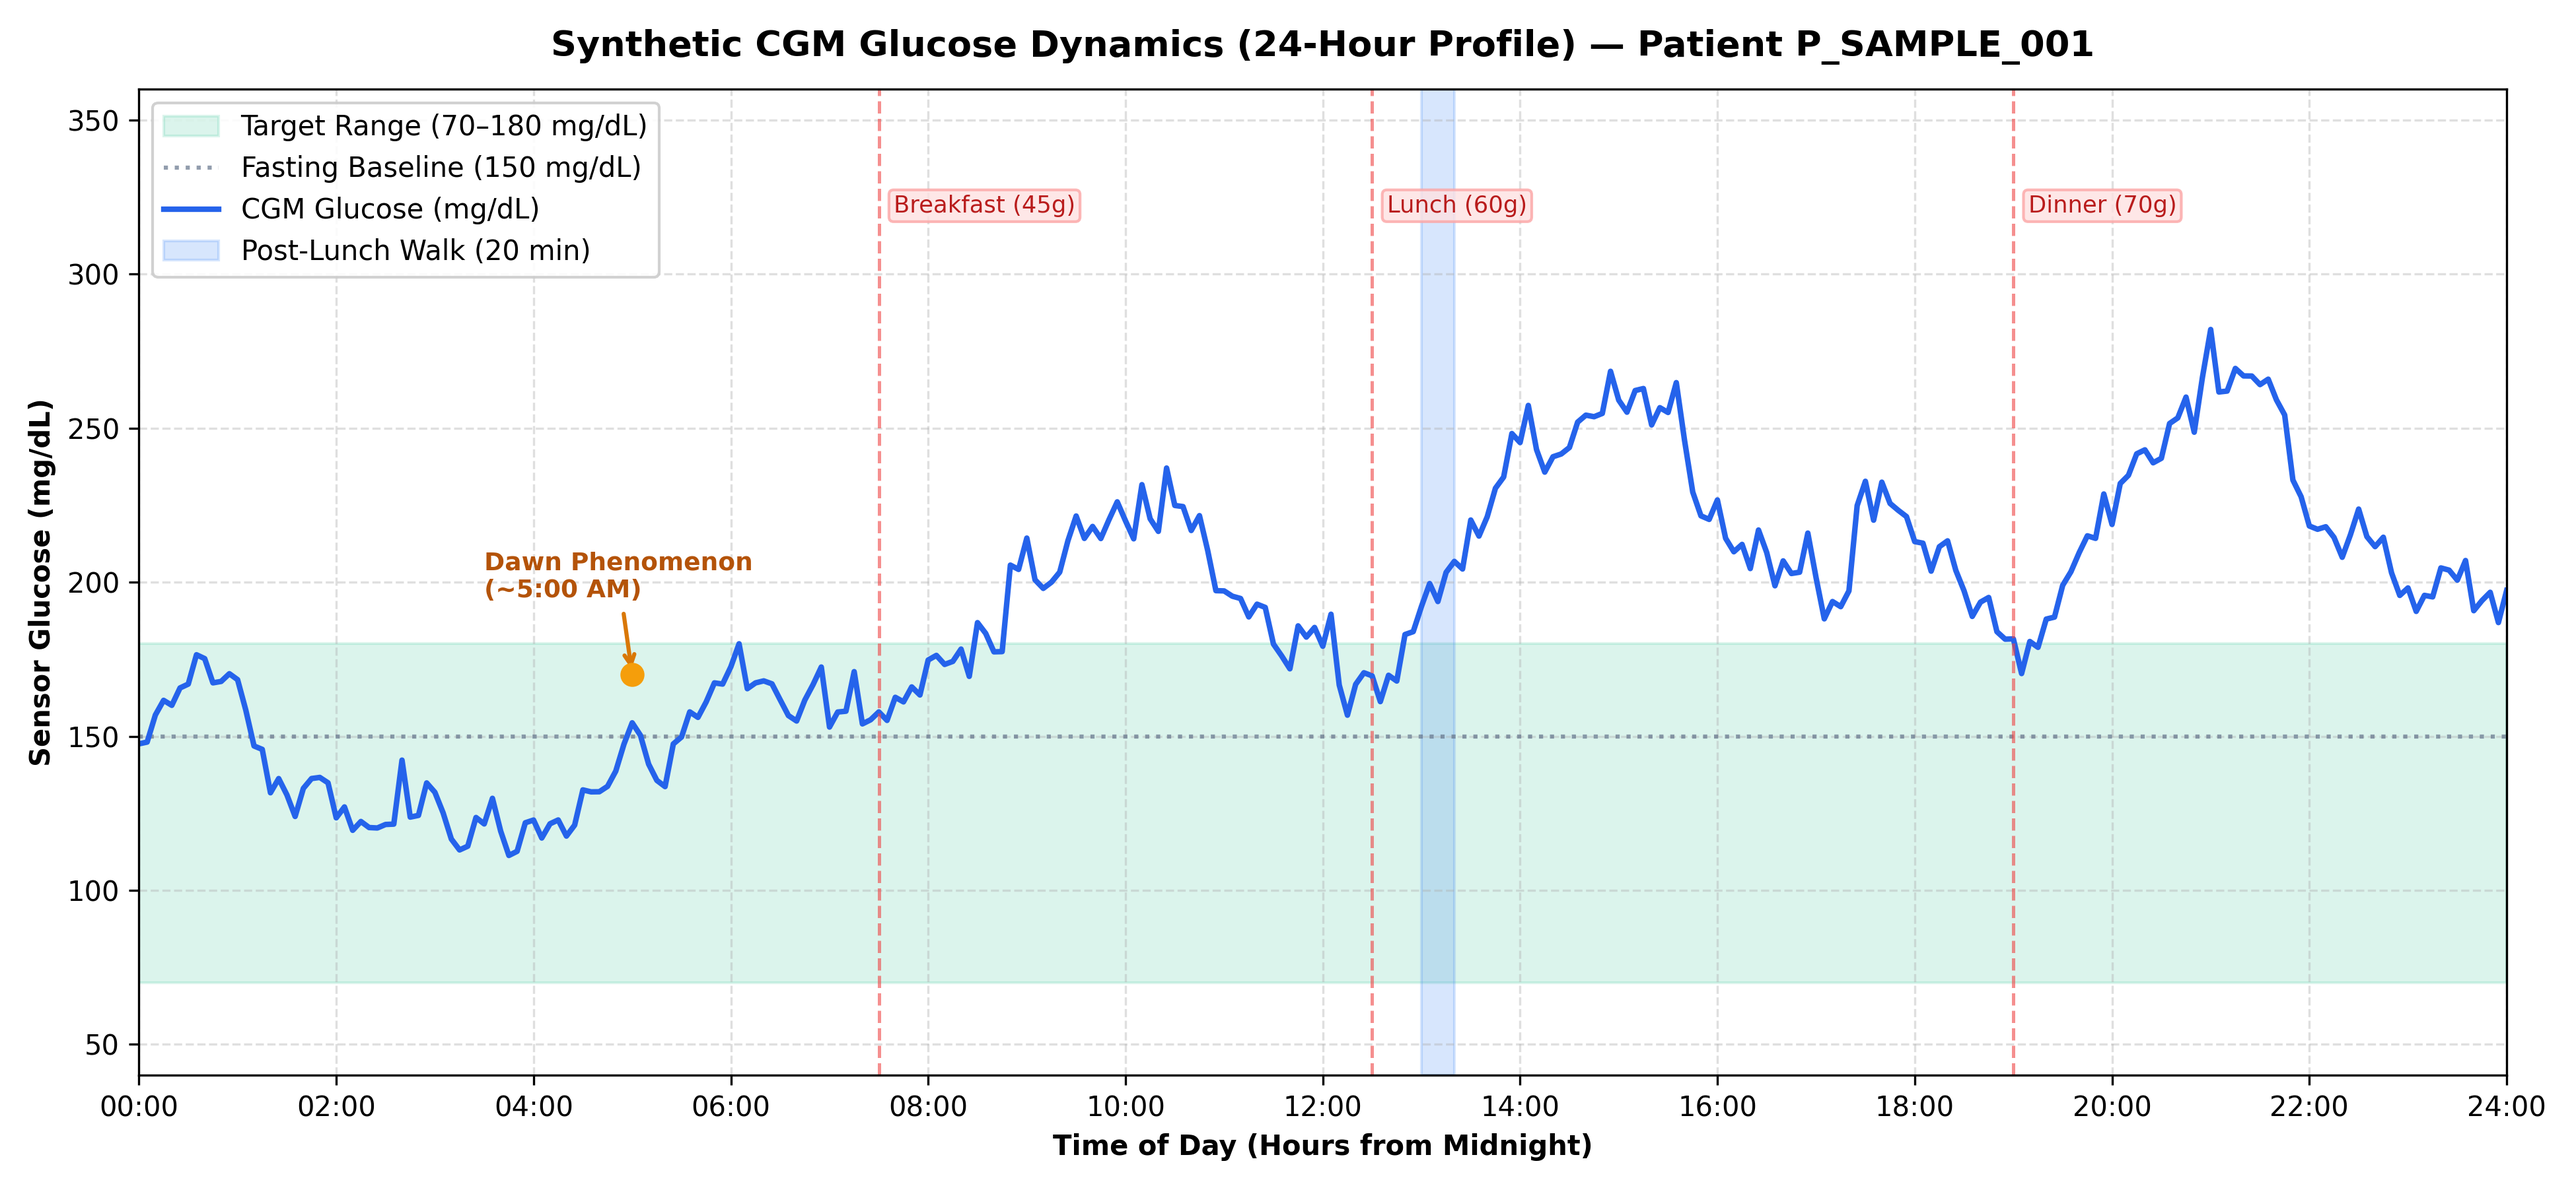
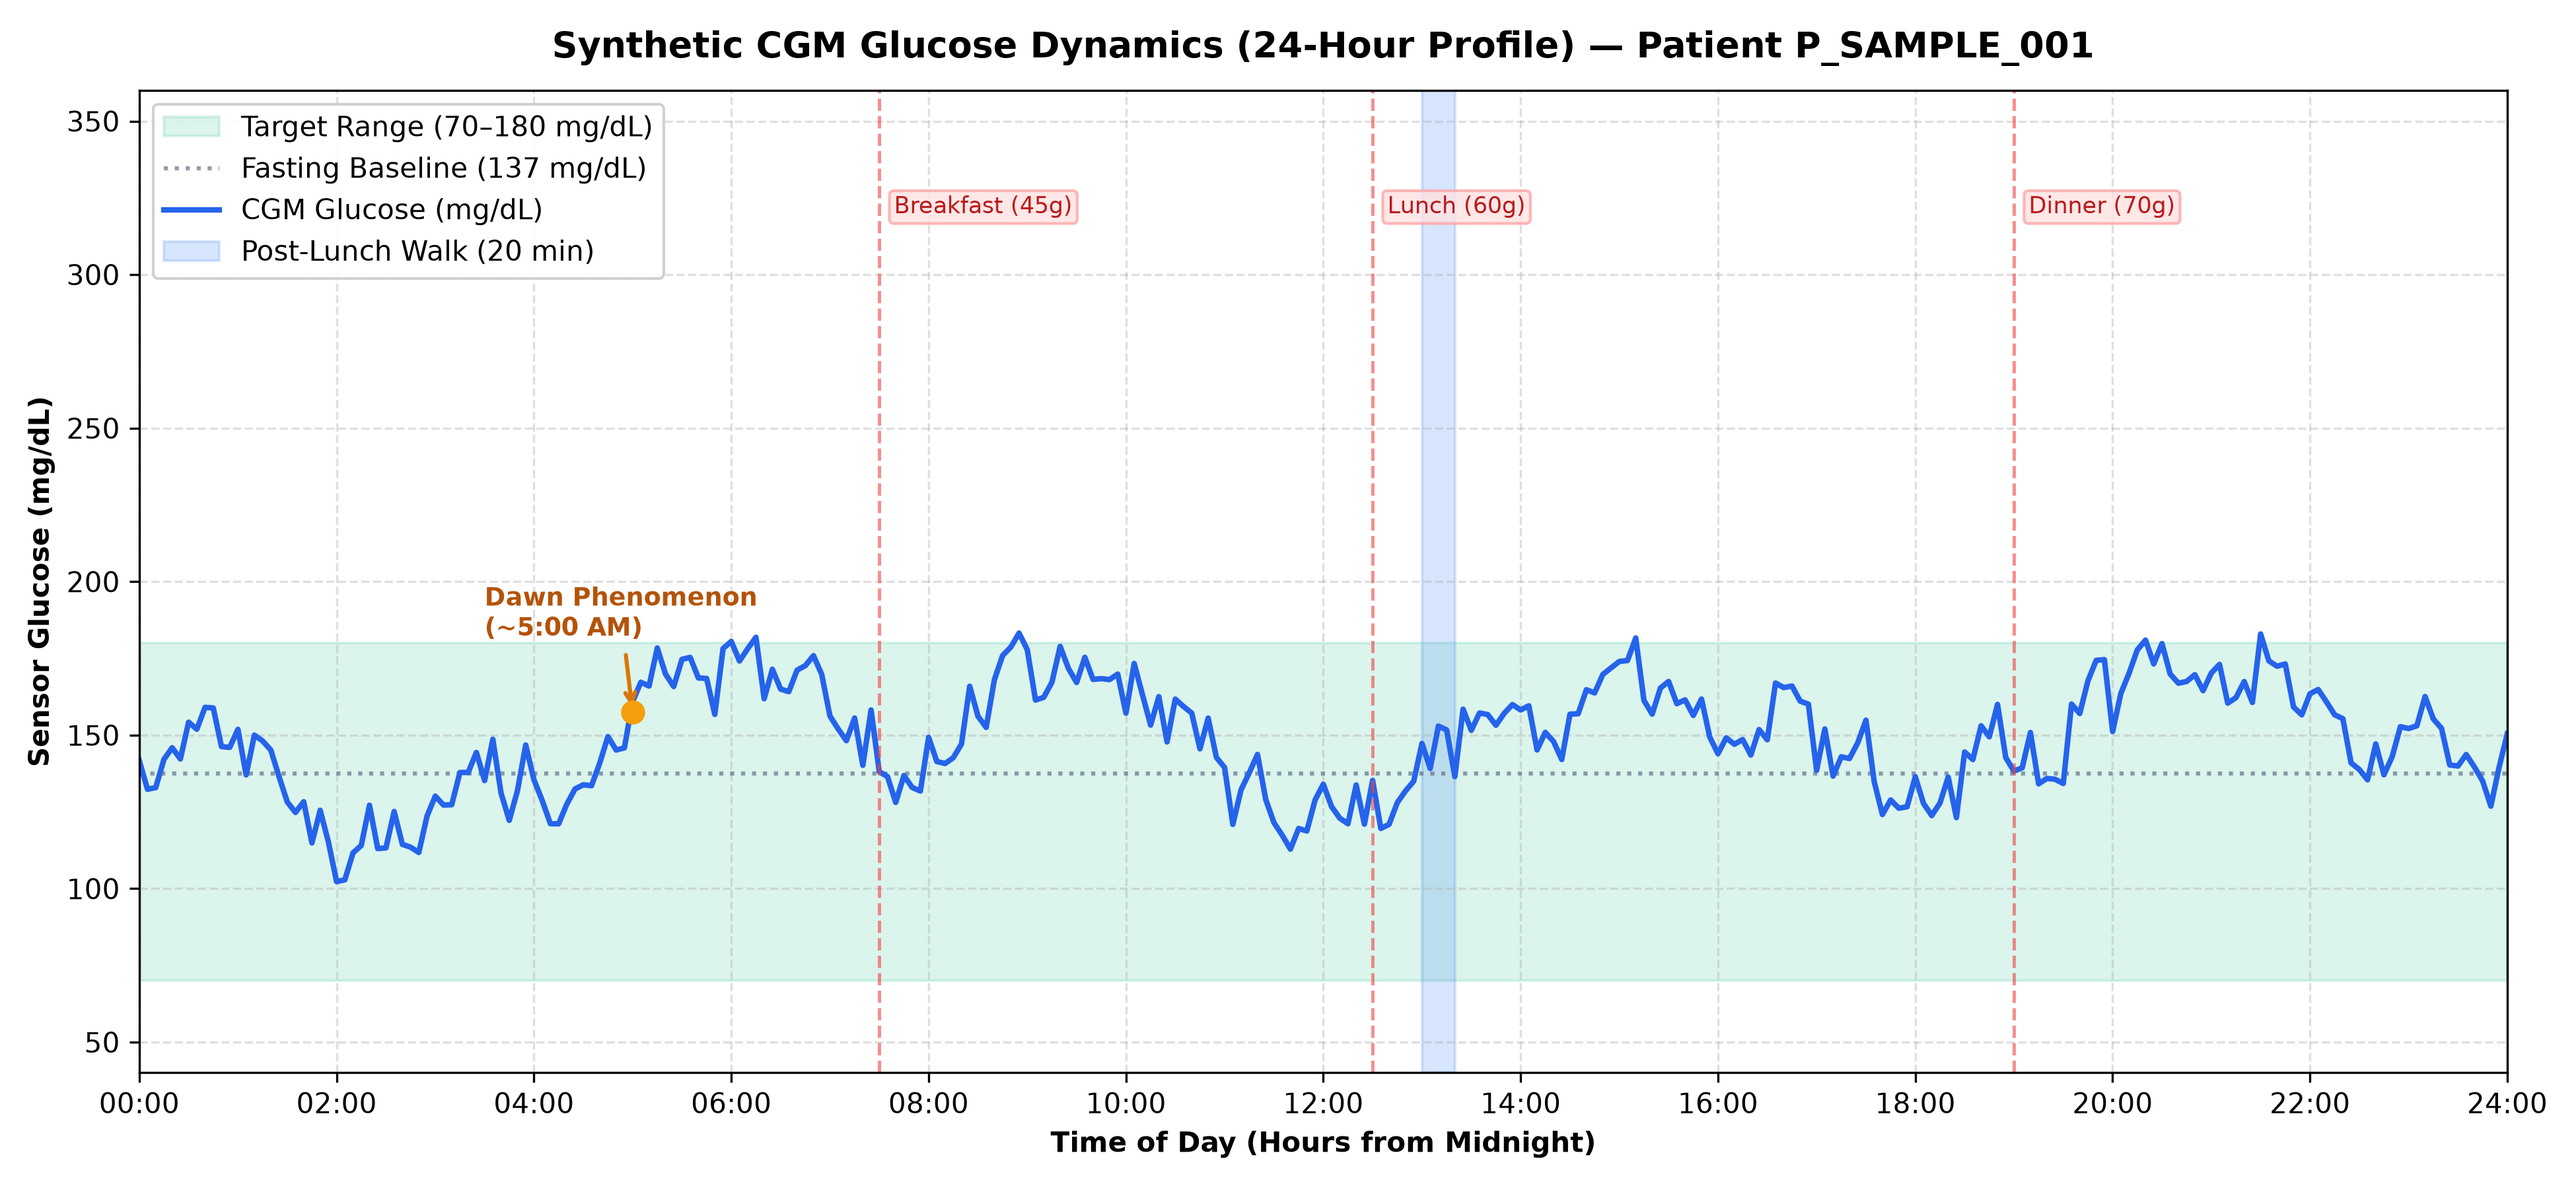
fix(data-gen): recalibrate glucose physiology for a clinically plausible cohort
- Fix meal rate-of-appearance: use a properly area-normalized double-exponential
  kernel (integral = carbs x carb_sensitivity) instead of double-scaling by k_gut
- Raise glucose-effectiveness S_G off the non-physiological 0.005 floor that caused
  meal stacking and runaway hyperglycemia; recalibrate p3 and carb sensitivity
- Dampen the basal setpoint so poorly-controlled patients sit elevated but not
  sensor-saturated
- Seed process/sensor noise per-patient (remove module-level np.random.seed that
  made every patient's noise identical)
- Recenter the EHR HbA1c distribution to a realistic cohort mean (~7.5%)

Cohort now shows ~61% time-in-range and a ~2% adverse-event rate, consistent with
a monitored T2DM population (previously ~15% TIR, pinned near the 400 mg/dL ceiling)

diff --git a/src/data_generation/glucose_dynamics_model.py b/src/data_generation/glucose_dynamics_model.py
@@ -110,7 +110,13 @@ class PatientParams:
             Initialized model parameter instance.
         """
         patient_id: str = str(profile.get("patient_id", "P001"))
-        G_b: float = float(profile["fasting_glucose"])
+        # Basal setpoint: fasting glucose is the overnight trough the ODE relaxes toward.
+        # Dampen very high fasting values toward a physiological basal so that even
+        # poorly controlled patients sit in a realistically-bad (not sensor-saturated)
+        # range, while keeping a clinically elevated fasting trough.
+        # Maps fasting 90->90, 150->141, 200->182, 280->248.
+        fasting_glucose: float = float(profile["fasting_glucose"])
+        G_b: float = float(90.0 + 0.79 * (fasting_glucose - 90.0))
 
         # Basal insulin: baseline 8.0 μU/mL, elevated in patients requiring exogenous insulin
         I_b: float = (
@@ -123,27 +129,38 @@ class PatientParams:
         bmi: float = float(profile["bmi"])
         age: float = float(profile.get("age", 55.0))
 
-        # Glucose effectiveness S_G: Higher HbA1c impairs insulin-independent glucose disposal
-        S_G: float = float(np.clip(0.025 * (10.0 - hba1c) / 4.0, 0.005, 0.04))
+        # Glucose effectiveness S_G (1/min): insulin-independent glucose disposal.
+        # Literature basal S_G in T2DM is ~0.013-0.025/min. We scale it DOWN with
+        # worsening glycemia but keep a physiological floor so glucose still clears
+        # (a floor of 0.005 gives a ~200 min clearance time constant, which is
+        # non-physiological and causes meal stacking -> runaway hyperglycemia).
+        S_G: float = float(np.clip(0.021 - 0.0020 * (hba1c - 6.5), 0.010, 0.028))
 
         # Insulin action decay p2: Fixed standard literature constant
         p2: float = 0.025
 
-        # Insulin action sensitivity p3: Improved by insulin-sensitizing and incretin therapies
+        # Insulin action sensitivity p3 (1/min per μU/mL): improved by insulin-sensitizing
+        # and incretin therapies. Scaled relative to p2 to yield a realistic insulin
+        # sensitivity index S_I = p3/p2.
         med_metformin: float = float(profile.get("med_metformin", 0))
         med_sglt2i: float = float(profile.get("med_sglt2i", 0))
         med_glp1ra: float = float(profile.get("med_glp1ra", 0))
-        p3_raw: float = S_G * 0.4 * (
+        # Worse glycemic control -> lower baseline insulin sensitivity
+        p3_base: float = 1.2e-4 - 6.0e-6 * (hba1c - 6.5)
+        p3_raw: float = p3_base * (
             1.0 + 0.15 * med_metformin + 0.10 * med_sglt2i + 0.20 * med_glp1ra
         )
-        p3: float = float(np.clip(p3_raw, 0.00001, 0.0005))
+        p3: float = float(np.clip(p3_raw, 3.0e-5, 2.2e-4))
 
         # Derived insulin sensitivity index S_I = p3 / p2
         insulin_sensitivity: float = float(p3 / p2)
 
-        # Carbohydrate sensitivity: Higher HbA1c and severe adiposity amplify postprandial glycemic excursions
-        carb_sens_raw: float = 1.5 + 0.6 * (hba1c - 5.5) + 0.2 * (bmi - 25.0) / 10.0
-        carb_sensitivity: float = float(np.clip(carb_sens_raw, 0.8, 5.0))
+        # Carbohydrate sensitivity (mg/dL rise per gram, before absorption kinetics):
+        # higher HbA1c and adiposity amplify postprandial excursions. The meal flux is
+        # area-normalized, so this is the net glycemic punch per gram. Poorly controlled
+        # patients get steeper postprandial rises that can cross the 250 mg/dL threshold.
+        carb_sens_raw: float = 0.9 + 0.42 * (hba1c - 5.5) + 0.20 * (bmi - 25.0) / 10.0
+        carb_sensitivity: float = float(np.clip(carb_sens_raw, 0.6, 3.6))
 
         # Base gastrointestinal absorption rate (~40 min peak absorption for moderate GI meal)
         absorption_rate: float = 0.025
@@ -215,18 +232,22 @@ def meal_absorption_rate(
     k_gut: float = k_abs * 0.6
     diff: float = k_abs - k_gut
 
+    # Normalized double-exponential kernel. The shape term
+    #   (k_abs*k_gut/(k_abs-k_gut)) * (exp(-k_gut*dt) - exp(-k_abs*dt))
+    # integrates to 1 over t in [0, inf), so the total glucose appearance
+    # (area under Ra) equals exactly carbs * carb_sensitivity (mg/dL).
+    total_load: float = carbs * params.carb_sensitivity
+
     # L'Hôpital edge case when gut transit and absorption rates are identical
     if abs(diff) < 1e-8:
-        ra = carbs * params.carb_sensitivity * k_abs * dt * np.exp(-k_abs * dt)
+        shape = (k_abs ** 2) * dt * np.exp(-k_abs * dt)
     else:
-        ra = (
-            carbs
-            * params.carb_sensitivity
-            * k_abs
+        shape = (
+            (k_abs * k_gut / diff)
             * (np.exp(-k_gut * dt) - np.exp(-k_abs * dt))
-            / diff
         )
 
+    ra = total_load * shape
     return float(max(0.0, ra))
 
 
@@ -339,13 +360,17 @@ def simulate_glucose(
     t_eval: np.ndarray = np.arange(0.0, float(duration_minutes) + 0.5 * dt, float(dt))
     t_span: tuple = (0.0, float(duration_minutes))
 
+    # Use a local RNG seeded per-patient so that process/sensor noise is reproducible
+    # yet DISTINCT across patients. (A module-level np.random.seed here would make the
+    # noise identical for every patient, which is unrealistic and a data-integrity flaw.)
+    rng = np.random.default_rng(abs(hash(params.patient_id)) % (2**32))
+
     # Pre-generate smooth continuous process noise over a regular grid for RK45 integration stability
-    np.random.seed(42)
     grid_points: int = len(t_eval) + 2
     t_grid: np.ndarray = np.linspace(0.0, float(duration_minutes) + dt, grid_points)
     # Scaled to maintain physiological variance (process_noise_std) across differential time-steps
     noise_rate_std = params.process_noise_std / np.sqrt(dt)
-    noise_vals: np.ndarray = np.random.normal(0.0, noise_rate_std, size=grid_points)
+    noise_vals: np.ndarray = rng.normal(0.0, noise_rate_std, size=grid_points)
 
     def _get_process_noise(t_curr: float) -> float:
         return float(np.interp(t_curr, t_grid, noise_vals))
@@ -366,26 +391,22 @@ def simulate_glucose(
     def _meal_rate(t_curr: float) -> float:
         """Calculate total rate of glucose appearance Ra(t) into systemic circulation.
 
-        To satisfy the clinical minimal model definition where total glycemic excursion
-        integral matches carbs * carb_sensitivity, the rate of appearance flux is
-        normalized by the intestinal transit rate constant k_gut.
+        meal_absorption_rate returns a double-exponential (Dalla Man) flux whose
+        time-integral equals carbs * carb_sensitivity (the total glucose load the
+        meal contributes), expressed in mg/dL/min. Summed across active meals.
         """
         total_ra: float = 0.0
         for meal in meals:
             dt_m = t_curr - float(meal["time"])
             if 0.0 < dt_m < 360.0:
                 gi = float(meal.get("gi_index", 0.6))
-                k_abs = params.absorption_rate * (0.8 + 0.4 * gi)
-                k_gut = k_abs * 0.6
-                raw_ra = meal_absorption_rate(
+                total_ra += meal_absorption_rate(
                     t=t_curr,
                     meal_time=float(meal["time"]),
                     carbs=float(meal["carbs"]),
                     gi_index=gi,
                     params=params,
                 )
-                # Area-normalized flux: ensures peak glucose rise equals carbs * carb_sensitivity
-                total_ra += raw_ra * k_gut
         return total_ra
 
     def _exercise_rate(t_curr: float) -> float:
@@ -437,8 +458,8 @@ def simulate_glucose(
 
     raw_glucose: np.ndarray = sol.y[0]
 
-    # Add Gaussian sensor measurement noise
-    sensor_noise: np.ndarray = np.random.normal(
+    # Add Gaussian sensor measurement noise (same per-patient RNG stream)
+    sensor_noise: np.ndarray = rng.normal(
         0.0, params.sensor_noise_std, size=len(raw_glucose)
     )
     cgm_glucose: np.ndarray = raw_glucose + sensor_noise

diff --git a/src/data_generation/generate_ehr_cohort.py b/src/data_generation/generate_ehr_cohort.py
@@ -132,10 +132,13 @@ def generate_cohort(
     # 5. HbA1c: Core marker of chronic glycemia over preceding 90-120 days.
     # Clinical rationale: Adiposity (BMI > 28) worsens peripheral insulin resistance (+0.05 per unit).
     # Disease chronicity leads to progressive pancreatic beta-cell exhaust (+0.08 per year with T2DM).
-    base_hba1c = np.random.normal(7.8, 1.5, n_patients)
+    # Base centered so that AFTER adding BMI/duration effects the cohort mean HbA1c
+    # lands near ~7.6% (realistic for a monitored T2DM population) rather than skewing
+    # severe. Slopes are reduced to keep the right tail clinically plausible.
+    base_hba1c = np.random.normal(6.9, 1.1, n_patients)
     bmi_over_28 = np.maximum(0.0, bmi - 28.0)
     hba1c = np.clip(
-        np.round(base_hba1c + 0.05 * bmi_over_28 + 0.08 * years_with_t2dm, 1),
+        np.round(base_hba1c + 0.03 * bmi_over_28 + 0.045 * years_with_t2dm, 1),
         5.7,
         12.0
     )
